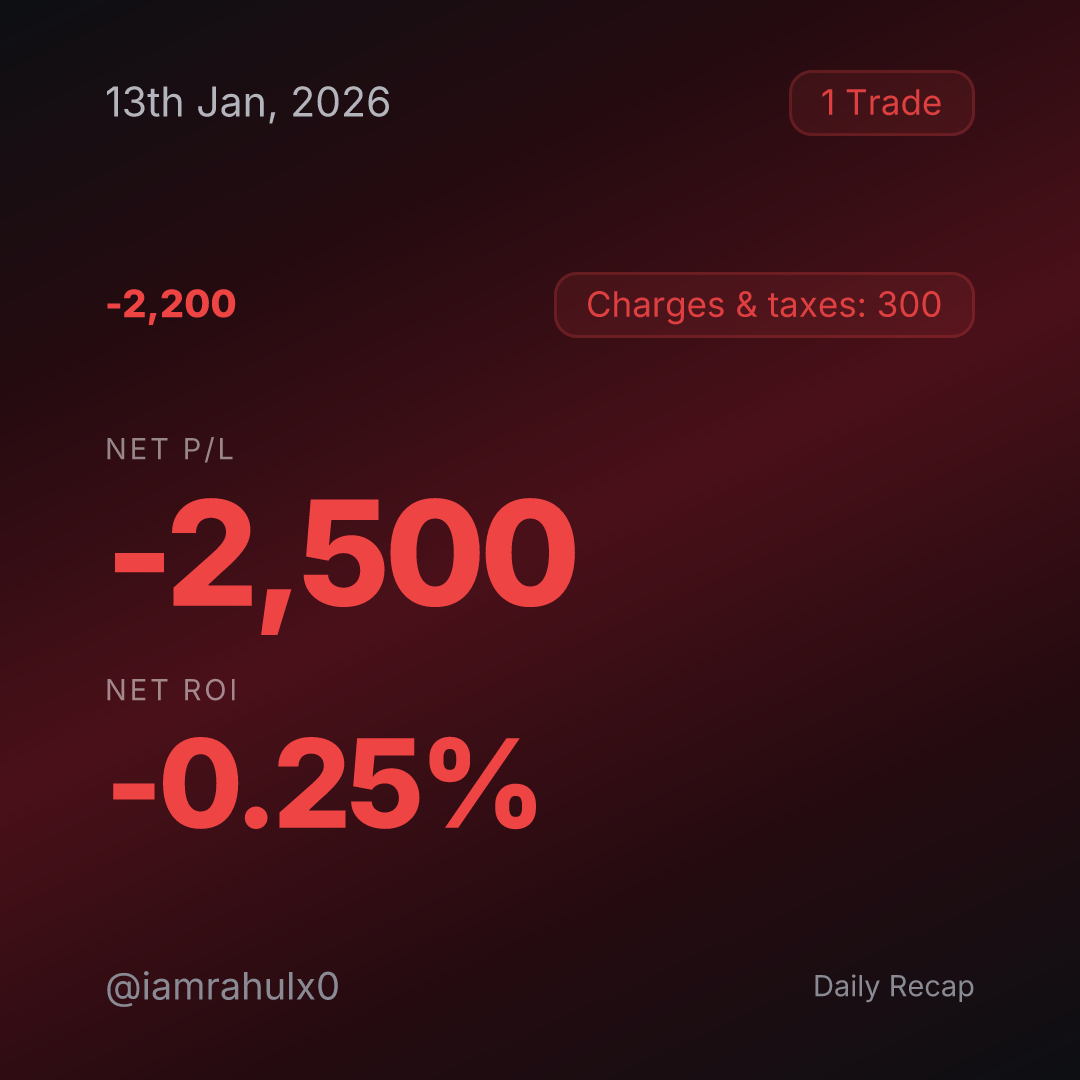
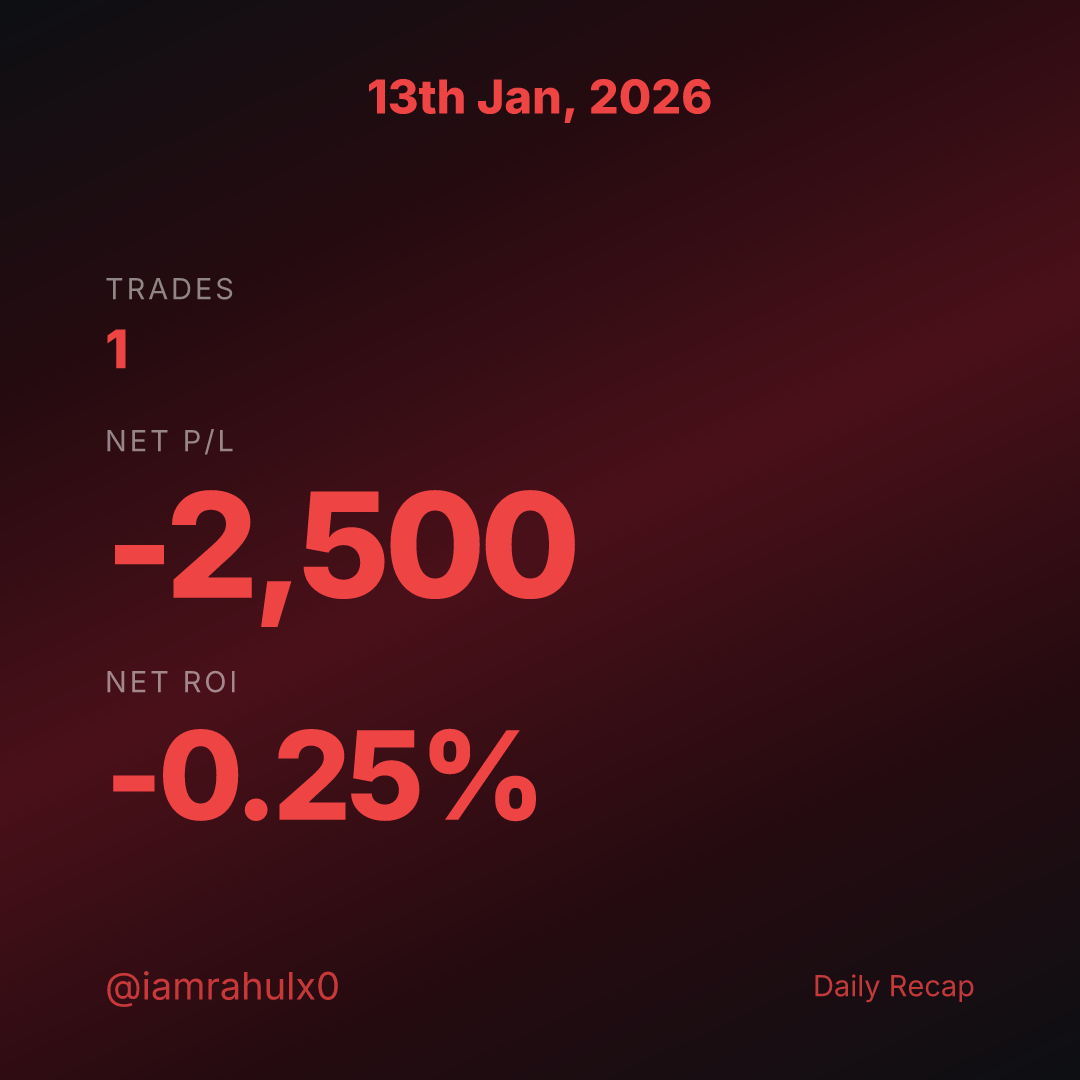
Redesign OG cards: cleaner daily layout, hero headers, stronger footers
- Daily card: remove P&L + charges row, show TRADES label + number
  grouped tightly with NET P/L and NET ROI as one centered block
- All cards: center date/range header with accent color and larger font
- All cards: remove header pills (trades pill on weekly, W/L pill on monthly)
- All cards: footer text (Pnl Card / handle + recap label) uses new
  footerText token at 80% accent opacity for good contrast
- Add footerText color to og-card-styles.ts shared style system
- Promo script: support BASE_URL env var for flexible port
- Regenerate all 12 promo PNGs with new card designs

diff --git a/app/api/og/daily/route.tsx b/app/api/og/daily/route.tsx
@@ -50,47 +50,42 @@ export async function GET(request: Request) {
     const tradesText = tradeCount === "1" ? "1 Trade" : `${trades} Trades`;
     const streakText = streak >= 5 ? `${streak}d streak` : "";
 
-    // --- Build main section children (avoiding JSX conditionals) ---
-    const mainChildren: React.ReactNode[] = [];
-
+    // --- Build content groups (trades count + P&L section) ---
     const sectionGap = Math.round(14 * S);
     const labelToValueGap = Math.round(6 * S);
     const headerToContentGap = Math.round(8 * S);
 
-    if (hasCharges) {
-      mainChildren.push(
+    const tradesGroup = (
+      <div key="trades-group" style={{ display: "flex", flexDirection: "column" }}>
         <div
-          key="charges"
           style={{
             display: "flex",
-            flexDirection: "row",
-            alignItems: "center",
-            justifyContent: "space-between",
-            marginBottom: Math.round(32 * S),
+            fontSize: Math.round(10 * S),
+            color: s.labelColor,
+            textTransform: "uppercase",
+            letterSpacing: "0.1em",
+            fontWeight: 500,
+            marginBottom: Math.round(4 * S),
           }}
         >
-          <div style={{ display: "flex", fontSize: Math.round(13 * S), color: s.accent, fontWeight: 700 }}>
-            {pnl}
-          </div>
-          <div
-            style={{
-              display: "flex",
-              alignItems: "center",
-              background: s.pillBg,
-              border: `${Math.round(1 * S)}px solid ${s.pillBorder}`,
-              borderRadius: Math.round(8 * S),
-              padding: `${Math.round(3 * S)}px ${Math.round(10 * S)}px`,
-            }}
-          >
-            <div style={{ display: "flex", fontSize: Math.round(12 * S), color: s.pillText, fontWeight: 500 }}>
-              {`Charges & taxes: ${charges}`}
-            </div>
-          </div>
+          {"TRADES"}
         </div>
-      );
-    }
+        <div
+          style={{
+            display: "flex",
+            fontSize: Math.round(18 * S),
+            fontWeight: 700,
+            color: s.accent,
+          }}
+        >
+          {tradeCount}
+        </div>
+      </div>
+    );
 
-    mainChildren.push(
+    const pnlChildren: React.ReactNode[] = [];
+
+    pnlChildren.push(
       <div
         key="pnl-label"
         style={{
@@ -107,7 +102,7 @@ export async function GET(request: Request) {
       </div>
     );
 
-    mainChildren.push(
+    pnlChildren.push(
       <div
         key="pnl-value"
         style={{
@@ -117,7 +112,7 @@ export async function GET(request: Request) {
           color: s.accent,
           letterSpacing: "-0.04em",
           lineHeight: 1,
-          marginBottom: sectionGap,
+          marginBottom: hasRoi ? sectionGap : 0,
         }}
       >
         {netPnl}
@@ -125,7 +120,7 @@ export async function GET(request: Request) {
     );
 
     if (hasRoi) {
-      mainChildren.push(
+      pnlChildren.push(
         <div
           key="roi-label"
           style={{
@@ -141,7 +136,7 @@ export async function GET(request: Request) {
           {roiLabel}
         </div>
       );
-      mainChildren.push(
+      pnlChildren.push(
         <div
           key="roi-value"
           style={{
@@ -157,6 +152,12 @@ export async function GET(request: Request) {
         </div>
       );
     }
+
+    const pnlGroup = (
+      <div key="pnl-group" style={{ display: "flex", flexDirection: "column" }}>
+        {pnlChildren}
+      </div>
+    );
 
     // --- Streak dots (last dot solid, rest muted to match target) ---
     const streakDots: React.ReactNode[] = [];
@@ -193,12 +194,12 @@ export async function GET(request: Request) {
           border: `${Math.round(1 * S)}px solid ${s.logoBorder}`,
         }}
       >
-        <div style={{ display: "flex", fontSize: Math.round(10 * S), color: s.logoText, fontWeight: 700, letterSpacing: "-0.02em" }}>
+        <div style={{ display: "flex", fontSize: Math.round(10 * S), color: s.footerText, fontWeight: 700, letterSpacing: "-0.02em" }}>
           {"Pnl Card"}
         </div>
       </div>
     ) : (
-      <div style={{ display: "flex", fontSize: Math.round(13 * S), color: s.text3, fontWeight: 500 }}>
+      <div style={{ display: "flex", fontSize: Math.round(13 * S), color: s.footerText, fontWeight: 500 }}>
         {handle}
       </div>
     );
@@ -219,45 +220,27 @@ export async function GET(request: Request) {
           overflow: "hidden",
         }}
       >
-          {/* Header: date + trades pill — tighter gap so P&L/charges line sits closer */}
+          {/* Header: centered, accent-colored, prominent */}
           <div
             style={{
               display: "flex",
-              justifyContent: "space-between",
+              justifyContent: "center",
               alignItems: "center",
               marginBottom: headerToContentGap,
             }}
           >
-            <div style={{ display: "flex", fontSize: Math.round(14 * S), color: s.dateColor, fontWeight: 500 }}>
+            <div style={{ display: "flex", fontSize: Math.round(16 * S), color: s.accent, fontWeight: 600 }}>
               {date}
-            </div>
-            <div
-              style={{
-                display: "flex",
-                background: s.pillBg,
-                border: `${Math.round(1 * S)}px solid ${s.pillBorder}`,
-                borderRadius: Math.round(8 * S),
-                padding: `${Math.round(3 * S)}px ${Math.round(10 * S)}px`,
-              }}
-            >
-              <div style={{ display: "flex", fontSize: Math.round(12 * S), color: s.pillText, fontWeight: 500 }}>
-                {tradesText}
-              </div>
             </div>
           </div>
 
-          {/* Main content — centered in remaining space so vertical gap is even top & bottom */}
-          <div
-            style={{
-              flex: 1,
-              display: "flex",
-              flexDirection: "column",
-              justifyContent: "center",
-              minHeight: 0,
-            }}
-          >
-            {mainChildren}
+          {/* Main content — TRADES + P/L + ROI grouped tightly, centered vertically */}
+          <div style={{ flex: 1, display: "flex" }} />
+          <div style={{ display: "flex", flexDirection: "column", gap: Math.round(14 * S) }}>
+            {tradesGroup}
+            {pnlGroup}
           </div>
+          <div style={{ flex: 1, display: "flex" }} />
 
           {/* Footer */}
           <div style={{ display: "flex", flexDirection: "column" }}>
@@ -286,7 +269,7 @@ export async function GET(request: Request) {
               }}
             >
               {watermarkLeft}
-              <div style={{ display: "flex", fontSize: Math.round(10 * S), color: s.text3 }}>
+              <div style={{ display: "flex", fontSize: Math.round(10 * S), color: s.footerText }}>
                 {"Daily Recap"}
               </div>
             </div>

diff --git a/app/api/og/weekly/route.tsx b/app/api/og/weekly/route.tsx
@@ -263,12 +263,12 @@ export async function GET(request: Request) {
           border: `${Math.round(1 * S)}px solid ${s.logoBorder}`,
         }}
       >
-        <div style={{ display: "flex", fontSize: Math.round(10 * S), color: s.logoText, fontWeight: 700, letterSpacing: "-0.02em" }}>
+        <div style={{ display: "flex", fontSize: Math.round(10 * S), color: s.footerText, fontWeight: 700, letterSpacing: "-0.02em" }}>
           {"Pnl Card"}
         </div>
       </div>
     ) : (
-      <div style={{ display: "flex", fontSize: Math.round(13 * S), color: s.text3, fontWeight: 500 }}>
+      <div style={{ display: "flex", fontSize: Math.round(13 * S), color: s.footerText, fontWeight: 500 }}>
         {handle}
       </div>
     );
@@ -289,30 +289,17 @@ export async function GET(request: Request) {
             overflow: "hidden",
           }}
         >
-          {/* Header */}
+          {/* Header: centered, accent-colored, prominent */}
           <div
             style={{
               display: "flex",
-              justifyContent: "space-between",
+              justifyContent: "center",
               alignItems: "center",
               marginBottom: Math.round(10 * S),
             }}
           >
-            <div style={{ display: "flex", fontSize: Math.round(13 * S), color: s.text3 }}>
+            <div style={{ display: "flex", fontSize: Math.round(15 * S), color: s.accent, fontWeight: 600 }}>
               {range}
-            </div>
-            <div
-              style={{
-                display: "flex",
-                background: s.pillBg,
-                border: `${Math.round(1 * S)}px solid ${s.pillBorder}`,
-                borderRadius: Math.round(8 * S),
-                padding: `${Math.round(3 * S)}px ${Math.round(10 * S)}px`,
-              }}
-            >
-              <div style={{ display: "flex", fontSize: Math.round(12 * S), color: s.pillText, fontWeight: 500 }}>
-                {totalTrades === 1 ? "1 Trade" : `${totalTrades} Trades`}
-              </div>
             </div>
           </div>
 
@@ -338,7 +325,7 @@ export async function GET(request: Request) {
             }}
           >
             {watermarkLeft}
-            <div style={{ display: "flex", fontSize: Math.round(10 * S), color: s.text3 }}>
+            <div style={{ display: "flex", fontSize: Math.round(10 * S), color: s.footerText }}>
               {"Weekly Recap"}
             </div>
           </div>

diff --git a/app/api/og/monthly/route.tsx b/app/api/og/monthly/route.tsx
@@ -296,12 +296,12 @@ export async function GET(request: Request) {
           border: `${Math.round(1 * S)}px solid ${s.logoBorder}`,
         }}
       >
-        <div style={{ display: "flex", fontSize: Math.round(10 * S), color: s.logoText, fontWeight: 700, letterSpacing: "-0.02em" }}>
+        <div style={{ display: "flex", fontSize: Math.round(10 * S), color: s.footerText, fontWeight: 700, letterSpacing: "-0.02em" }}>
           {"Pnl Card"}
         </div>
       </div>
     ) : (
-      <div style={{ display: "flex", fontSize: Math.round(13 * S), color: s.text3, fontWeight: 500 }}>
+      <div style={{ display: "flex", fontSize: Math.round(13 * S), color: s.footerText, fontWeight: 500 }}>
         {handle}
       </div>
     );
@@ -322,30 +322,17 @@ export async function GET(request: Request) {
             overflow: "hidden",
           }}
         >
-          {/* Header */}
+          {/* Header: centered, accent-colored, prominent */}
           <div
             style={{
               display: "flex",
-              justifyContent: "space-between",
+              justifyContent: "center",
               alignItems: "center",
               marginBottom: Math.round(14 * S),
             }}
           >
-            <div style={{ display: "flex", fontSize: Math.round(14 * S), color: s.dateColor, fontWeight: 500 }}>
+            <div style={{ display: "flex", fontSize: Math.round(16 * S), color: s.accent, fontWeight: 600 }}>
               {month}
-            </div>
-            <div
-              style={{
-                display: "flex",
-                background: s.pillBg,
-                border: `${Math.round(1 * S)}px solid ${s.pillBorder}`,
-                borderRadius: Math.round(8 * S),
-                padding: `${Math.round(2 * S)}px ${Math.round(9 * S)}px`,
-              }}
-            >
-              <div style={{ display: "flex", fontSize: Math.round(11 * S), color: s.pillText, fontWeight: 500 }}>
-                {wl}
-              </div>
             </div>
           </div>
 
@@ -396,7 +383,7 @@ export async function GET(request: Request) {
             }}
           >
             {watermarkLeft}
-            <div style={{ display: "flex", fontSize: Math.round(10 * S), color: s.text3 }}>
+            <div style={{ display: "flex", fontSize: Math.round(10 * S), color: s.footerText }}>
               {"Monthly Recap"}
             </div>
           </div>

diff --git a/lib/og-card-styles.ts b/lib/og-card-styles.ts
@@ -10,6 +10,7 @@
 export type OgStyles = {
   accent: string;
   accentDim: string;
+  footerText: string;
   subtleGlow: string;
   pillBg: string;
   pillBorder: string;
@@ -42,6 +43,13 @@ export function getOgStyles(isDark: boolean, isProfit: boolean): OgStyles {
     : isDark
       ? "rgba(239,68,68,0.55)"
       : "rgba(220,38,38,0.3)";
+  const footerText = isProfit
+    ? isDark
+      ? "rgba(34,197,94,0.80)"
+      : "rgba(22,163,74,0.80)"
+    : isDark
+      ? "rgba(239,68,68,0.80)"
+      : "rgba(220,38,38,0.80)";
   const subtleGlow = isProfit
     ? isDark
       ? "rgba(34,197,94,0.14)"
@@ -99,6 +107,7 @@ export function getOgStyles(isDark: boolean, isProfit: boolean): OgStyles {
   return {
     accent,
     accentDim,
+    footerText,
     subtleGlow,
     pillBg,
     pillBorder,
